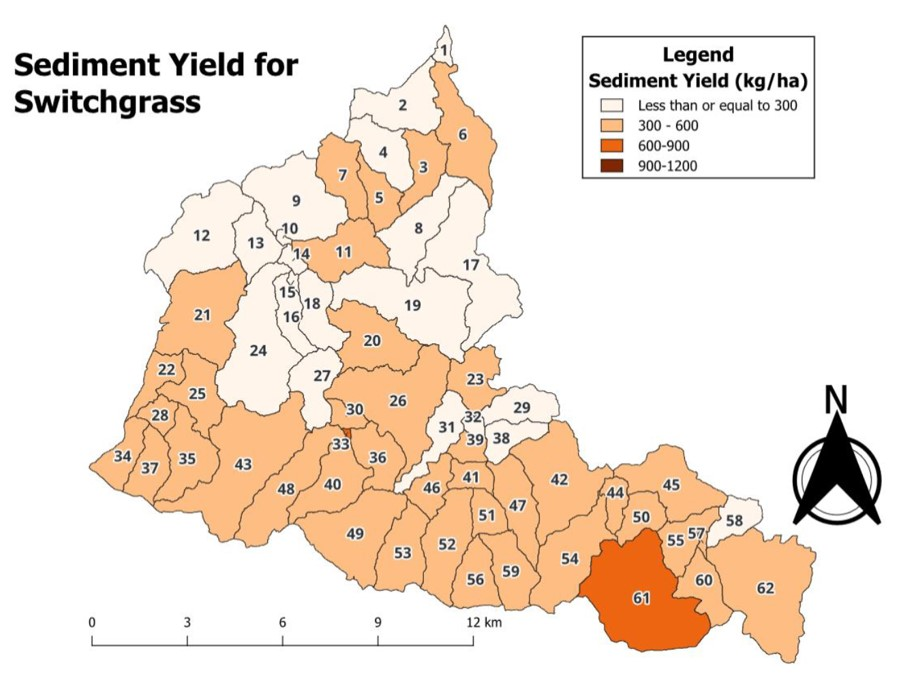
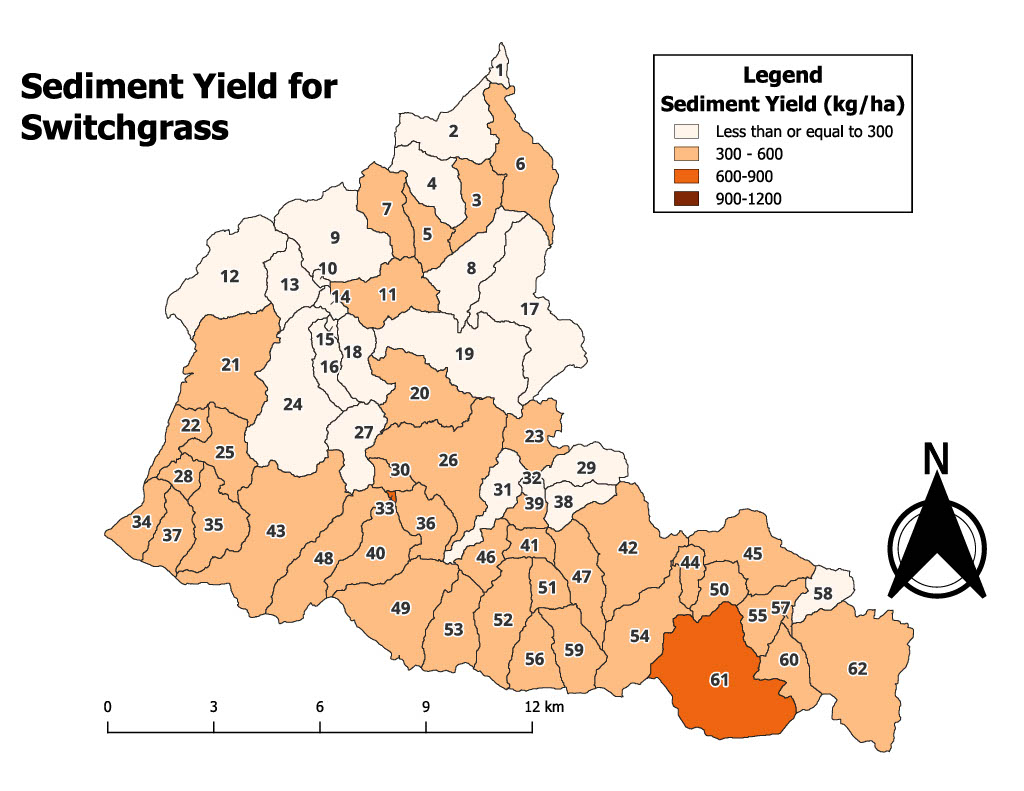
updating images

diff --git a/index.html b/index.html
@@ -133,16 +133,16 @@
     // Image mapping based on user selection
     const imageMap = {
       nitrogen_loss: {
-        businessAsUsual: "nitrate_bau.jpg",
-        switchgrass: "nitrate_switchgrass.jpg",
-        willow: "nitrate_willow.jpg",
-        big_bluestem: "nitrate_big_bluestem.jpg"
+        businessAsUsual: "nitrogen_bau.jpg",
+        switchgrass: "nitrogen_switchgrass.jpg",
+        willow: "nitrogen_willow.jpg",
+        big_bluestem: "nitrogen_bb.jpg"
       },
       sediment_yield: {
-        businessAsUsual: "sediment_yield_bau.jpg",
+        businessAsUsual: "sediment_bau.jpg",
         switchgrass: "sediment_switchgrass.jpg",
         willow: "sediment_willow.jpg",
-        big_bluestem: "sediment_big_bluestem.jpg"
+        big_bluestem: "sediment_bb.jpg"
       }
     };
 
